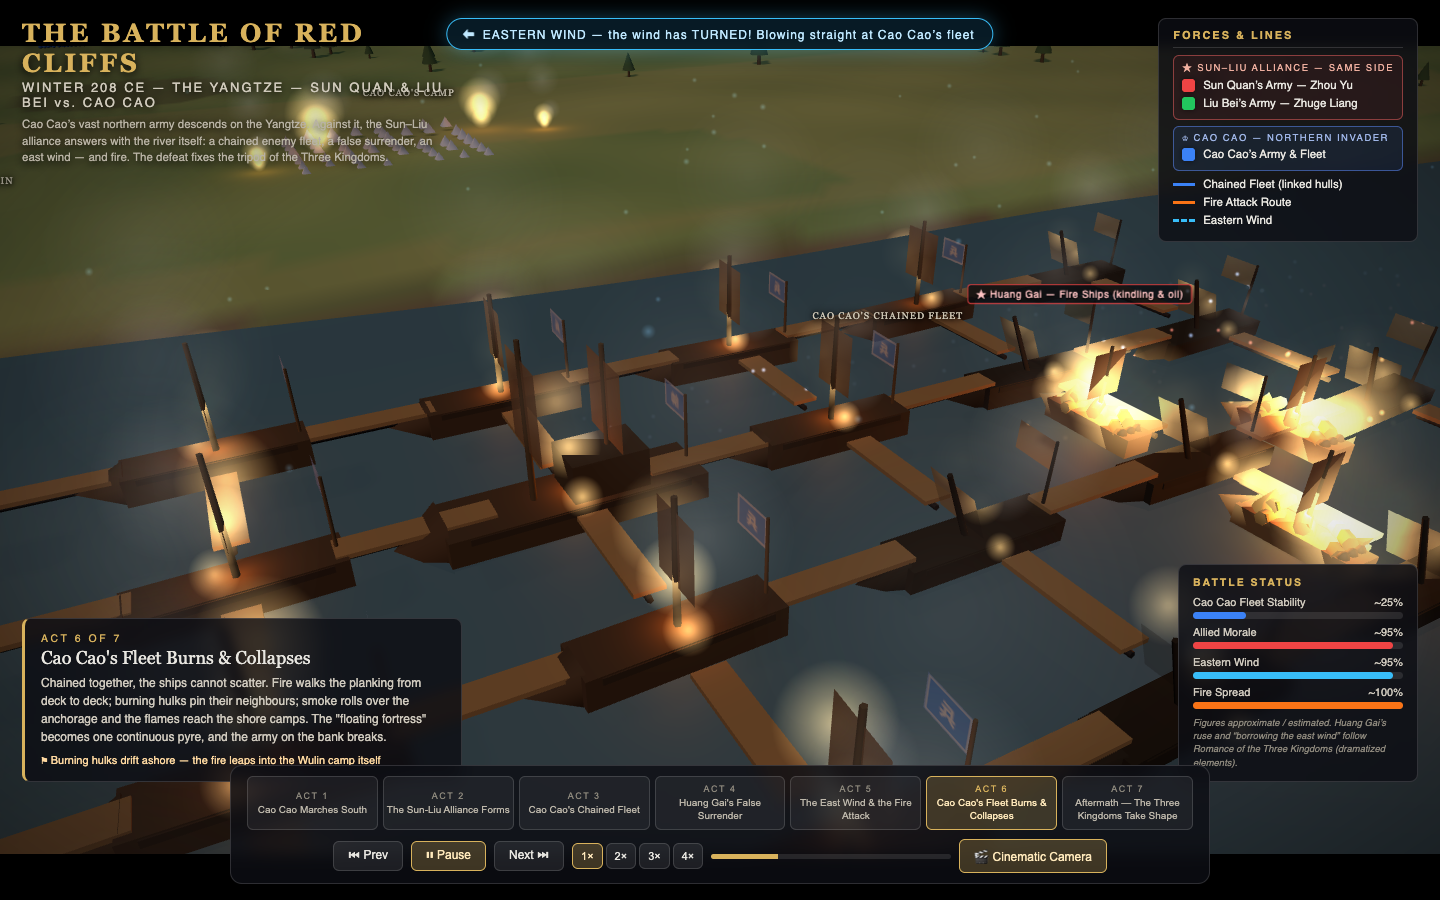
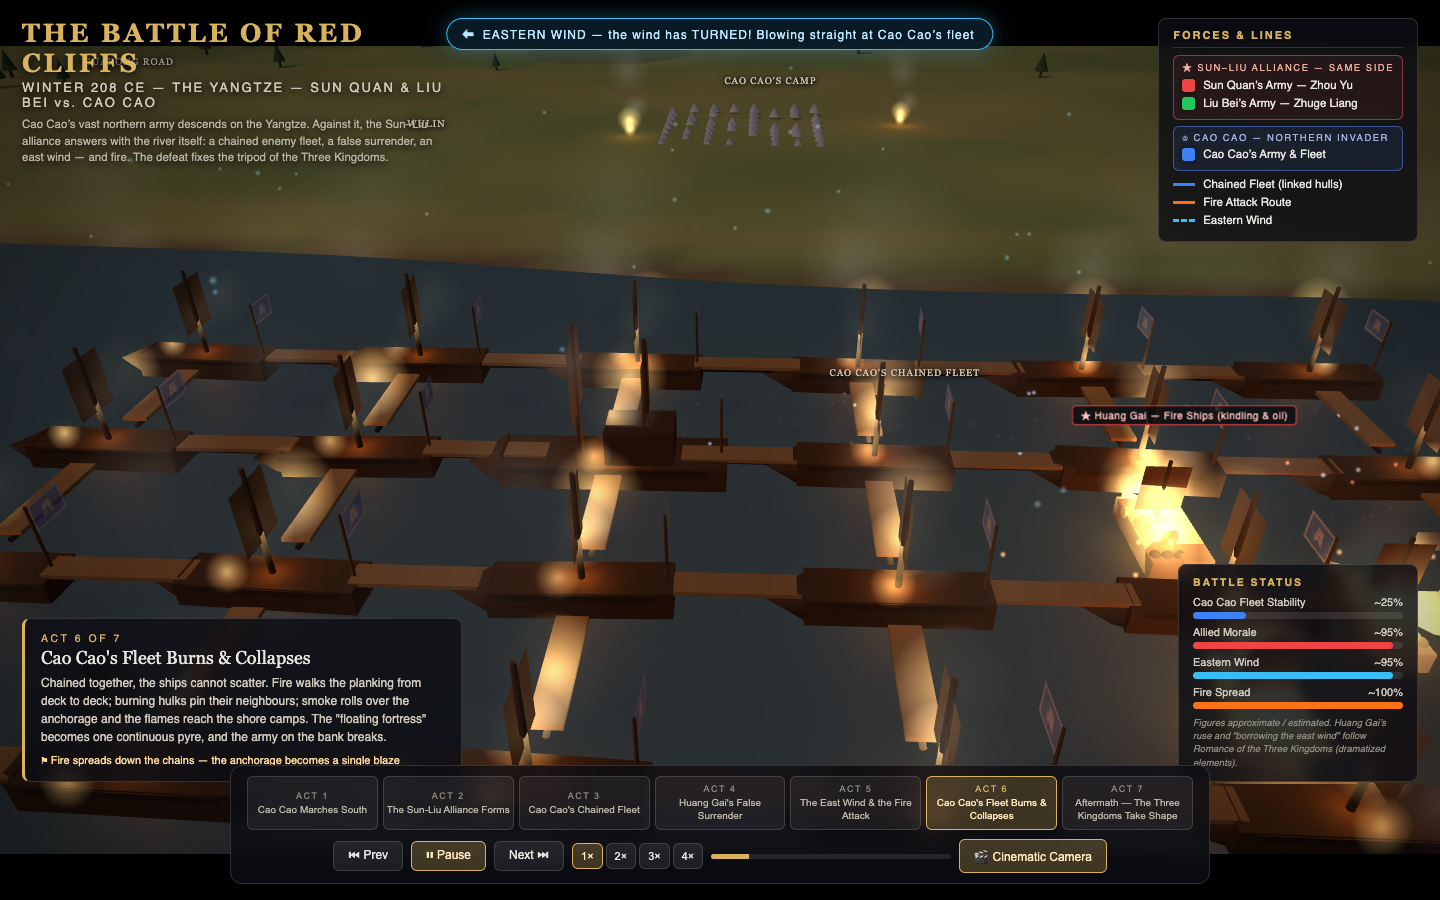
Red Cliffs: full-fleet blaze before the charred dawn
The burn timeline previously charred ships ~13s after ignition, so by
the time the fire wave reached the far side of the grid the near side
was already black — the "fire walking the chains" read as a narrow
moving band instead of an engulfing blaze.

- Burning phase extended to ~27s and spread sped up: the whole chained
  grid is now alight at once through Act 6, with charring only creeping
  in near the act's end
- Charred hulls keep dying embers; every 4th hull keeps a live flame
  (and its firelight) so the Act 7 dawn shows a blackened fleet with
  scattered fires still burning, per the story
- Destroyed wrecks (every 3rd, only past ~48s) go dark and heel over

diff --git a/redcliffs.html b/redcliffs.html
@@ -801,8 +801,8 @@ class Warship {
       this.fireT += dt;
       const ft = this.fireT;
       let target = 'Ignited';
-      if(ft > 26) target = (this.idx % 3 === 0) ? 'Destroyed' : 'Charred';
-      else if(ft > 13) target = 'Charred';
+      if(ft > 48 && this.idx % 3 === 0) target = 'Destroyed';
+      else if(ft > 30) target = 'Charred';
       else if(ft > 3) target = 'Burning';
       if(target !== this.state) this.applyState(target);
       this.animateFire(ft, t, dt);
@@ -844,19 +844,21 @@ class Warship {
     }
   }
   animateFire(ft, t, dt){
-    // flame size envelope: grows, peaks while Burning, dies to embers when Charred
+    // flame size envelope: a LONG full blaze (the whole chained grid burns
+    // together), then dying embers — though a few hulls burn on into the dawn
     let f = 0;
-    if(ft < 3) f = ft / 3 * 0.45;
-    else if(ft < 13) f = 0.65 + 0.35 * Math.sin((ft - 3) / 10 * Math.PI);
-    else if(ft < 26) f = Math.max(0.12, 0.5 - (ft - 13) * 0.03);   // embers
-    else f = this.state === 'Destroyed' ? 0 : 0.1;
+    if(ft < 3) f = ft / 3 * 0.5;
+    else if(ft < 30) f = 0.7 + 0.3 * Math.sin((ft - 3) / 27 * Math.PI);
+    else if(this.state === 'Destroyed') f = 0;
+    else if(this.idx % 4 === 1) f = 0.42 + 0.1 * Math.sin(t * 2 + this.idx); // still burning
+    else f = Math.max(0.08, 0.3 - (ft - 30) * 0.02);               // dying embers
     this.flames.forEach((fl, i) => {
       const n = Math.sin(t * 11 + i * 2.1 + this.idx) * 0.5 + 0.5;
       fl.material.opacity = f > 0.01 ? (0.5 + n * 0.4) * Math.min(1, f * 1.6) : 0;
       fl.scale.setScalar((5 + i * 3) * (0.4 + f) );
       fl.position.y = 4 + f * 6 + i * 2.4;
     });
-    const smokeAmt = ft < 26 ? Math.min(1, ft / 4) : 0.5;
+    const smokeAmt = ft < 30 ? Math.min(1, ft / 4) : (this.state === 'Destroyed' ? 0.25 : 0.55);
     this.smokes.forEach(s => {
       s.userData.k = (s.userData.k + dt * 0.14) % 1;
       const k = s.userData.k;
@@ -865,8 +867,8 @@ class Warship {
       s.material.opacity = 0.36 * (1 - k) * smokeAmt;
     });
     this.light.intensity = 90 * f * (0.8 + Math.sin(t * 13 + this.idx) * 0.2);
-    // only the actively-burning ships cast light (embers & wrecks don't)
-    this.light.visible = f > 0.2 && this.state !== 'Charred' && this.state !== 'Destroyed';
+    // burning ships cast light — including hulls still aflame after charring
+    this.light.visible = f > 0.2 && this.state !== 'Destroyed';
   }
 }
 
@@ -1215,7 +1217,7 @@ const chainGroup = new THREE.Group();
 function setChained(v){ chainGroup.visible = v; lblChain.visible = v; }
 
 /* fire spreads outward through the chained grid from the impact point */
-const fireWave = { active:false, t:0, origin:new THREE.Vector3(-60, 0, -95), speed:24 };
+const fireWave = { active:false, t:0, origin:new THREE.Vector3(-60, 0, -95), speed:30 };
 function startFireWave(preT = 0){
   fireWave.active = true; fireWave.t = preT;
 }